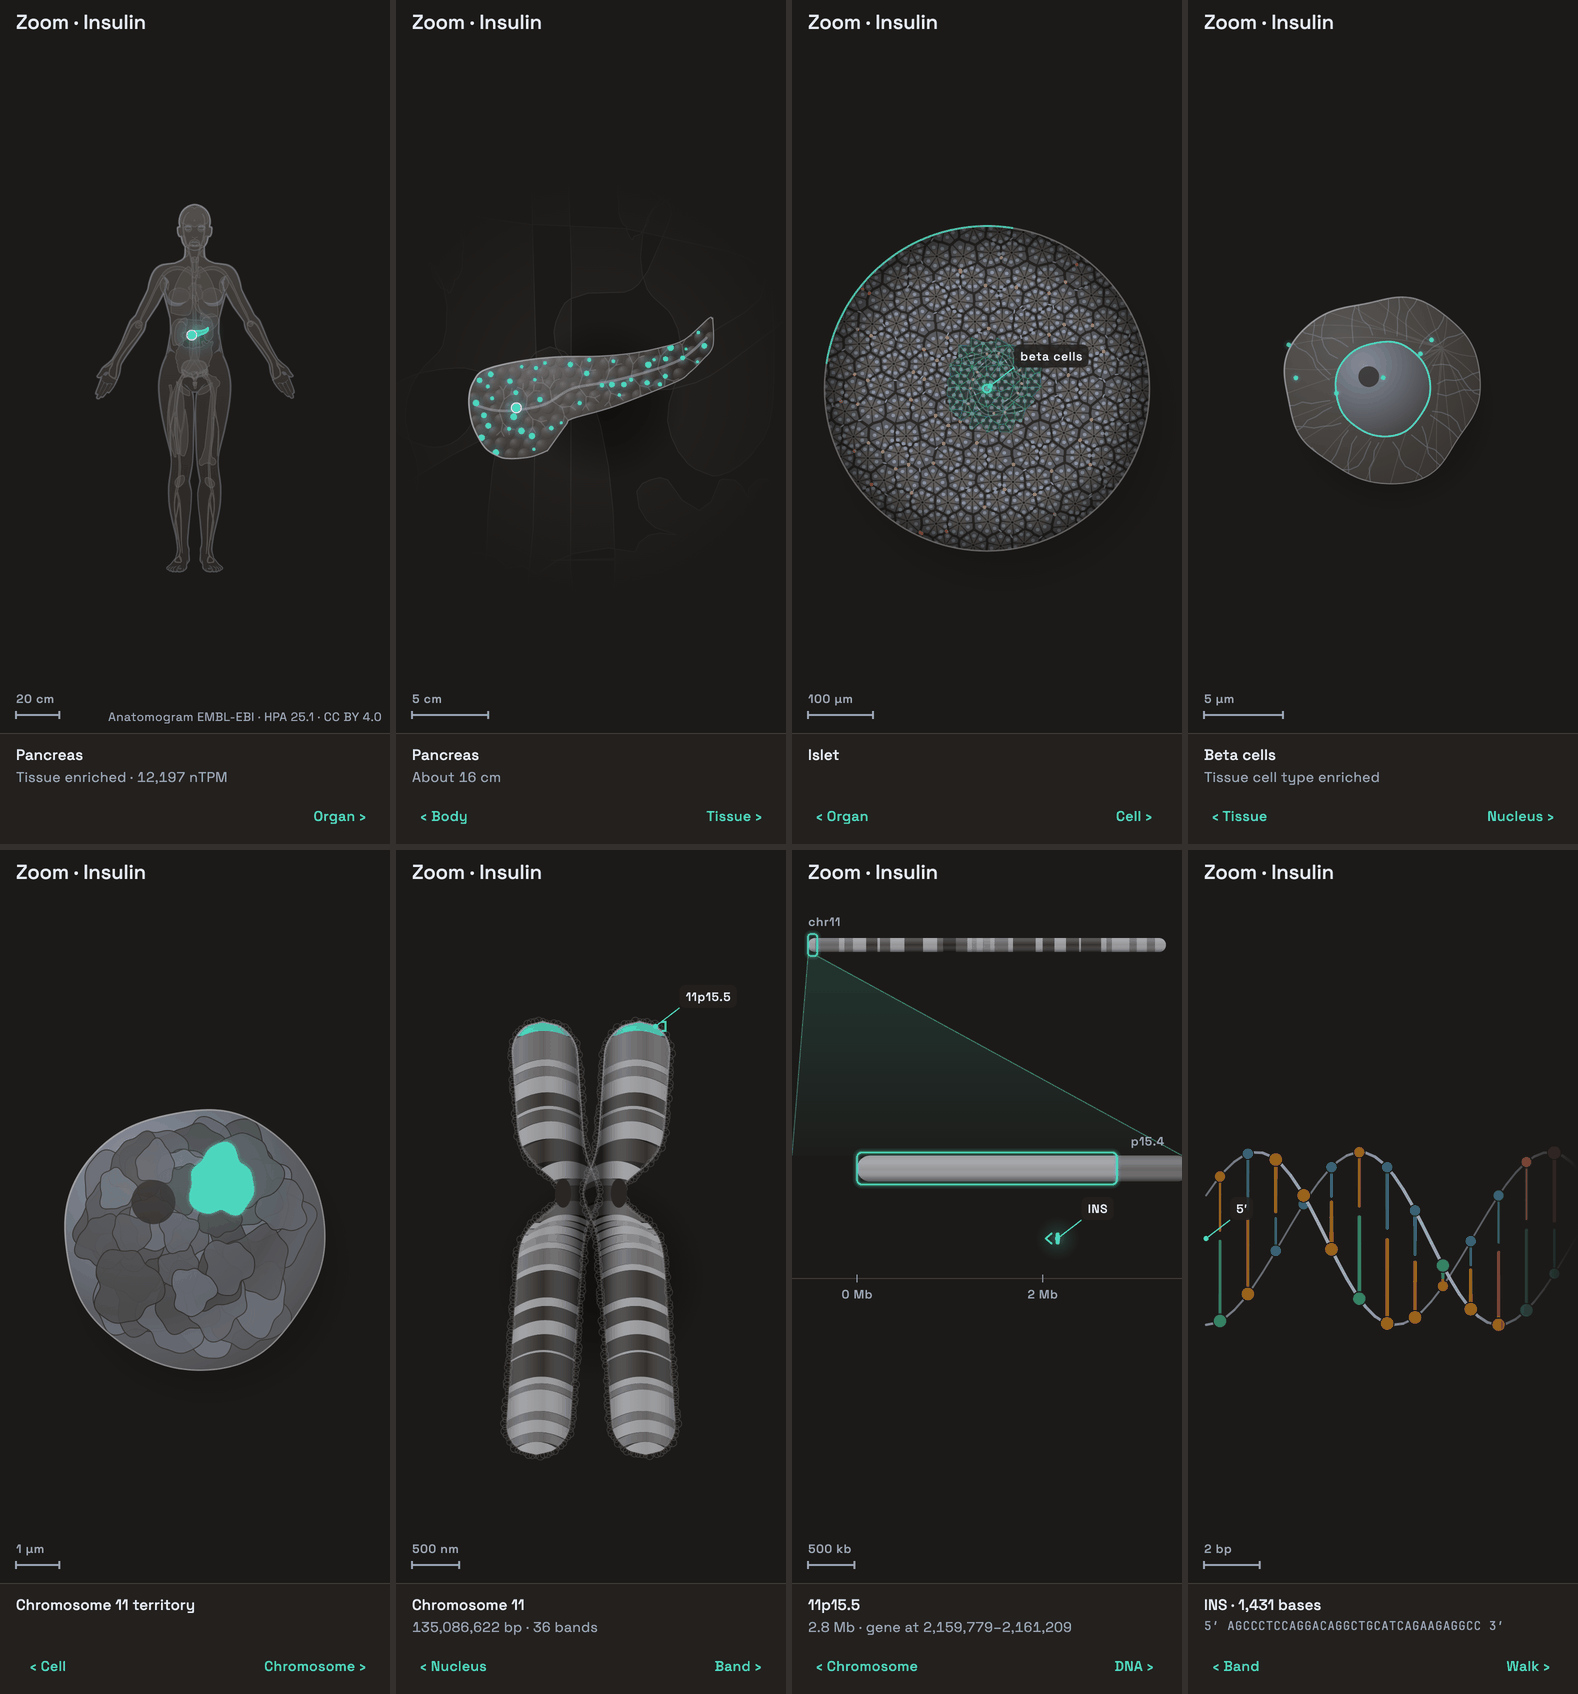
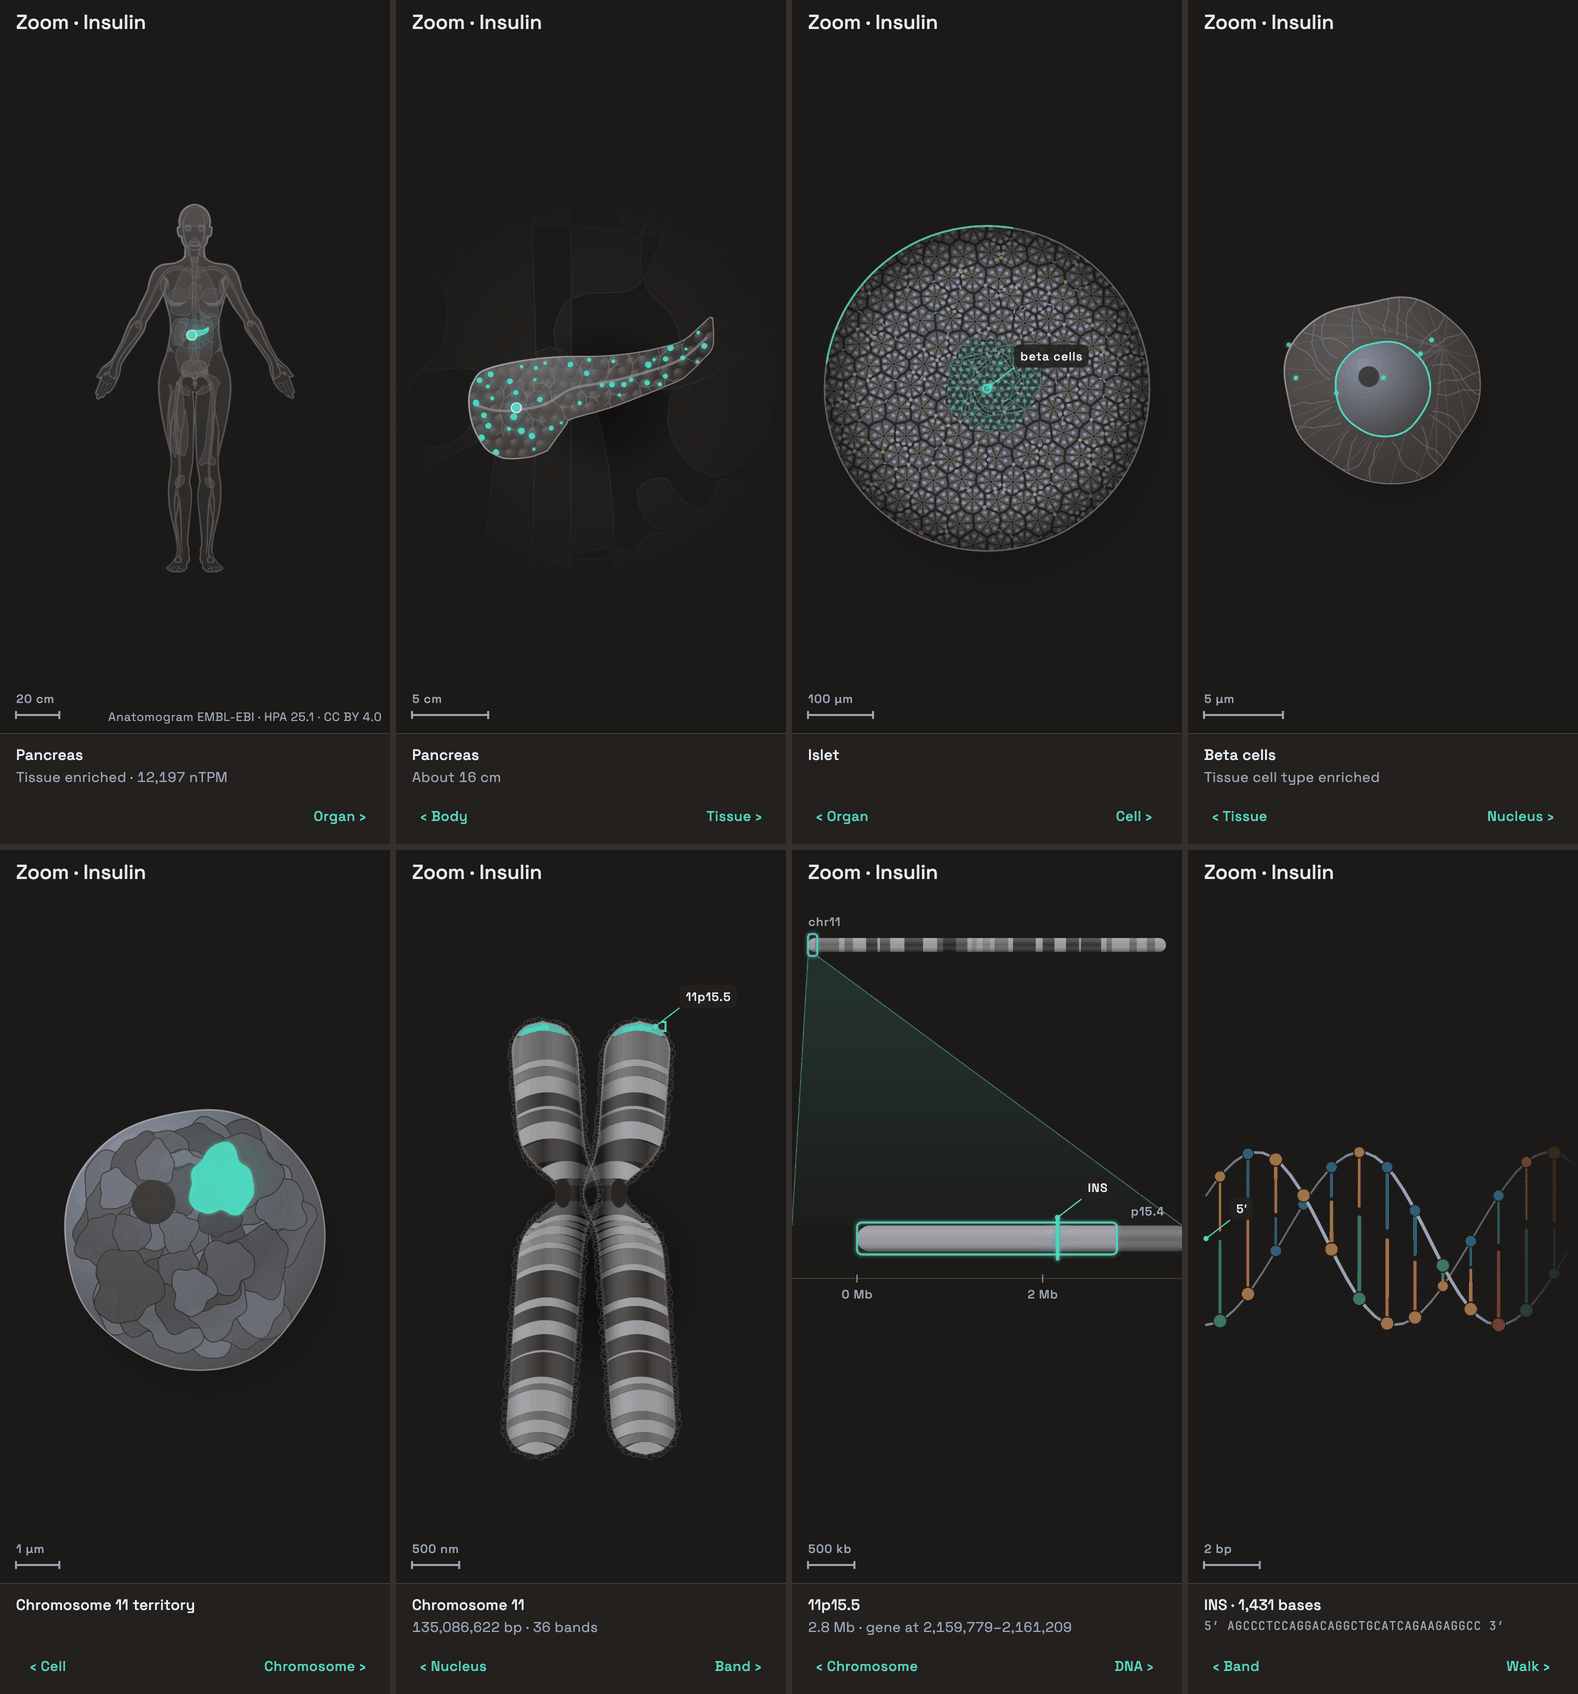
zoom: the band marks the gene on its strip, with no track of its own
The user asked what the small mark under the band was, and whether the
zoomed-in strip could carry it instead (2026-10-14); they chose the
strip. The gene had a track of its own under the strip: a feature in the
accent at least 4 px wide, an arrow for its strand, and its name. Now its
stretch of the strip is ringed in the accent, 8 px proud of the strip and
at the least a tick 1.5 px wide, named at its top, where the zoom goes in.
Seventeen of the twenty are ticks; APP, CFTR and DMD rings as wide as they
are. The strip no longer rises to make room: it stays on the middle,
where the turned chromosome hands it over, and on the way to the DNA the
mark opens into the gene's exons. The strand goes from the zoom; the
walk's record sheet gives it.

The design doc, its picture and CLAUDE.md say so.

Changed region(s): [[0.5279, 0.6753, 0.7763, 0.7674], [0.8695, 0.7367, 0.9005, 0.7981]]

diff --git a/lib/features/zoom/presentation/scenes/band_scene.dart b/lib/features/zoom/presentation/scenes/band_scene.dart
@@ -13,18 +13,18 @@ import 'zoom_subject.dart';
 
 /// The gene's band as a genome browser shows it: the chromosome opened out
 /// as a lit strip of its bands laid along the genome, each named, the
-/// gene's band ringed in the mark; the whole chromosome docked above as a
-/// map with the view boxed on it, and a funnel from the box down to the
-/// strip; a ruler in base pairs; and the gene's span on its own track,
-/// where MANE puts it, in the mark, with the way it is read.
+/// gene's band ringed in the mark and the gene marked on the strip where
+/// MANE puts it; the whole chromosome docked above as a map with the view
+/// boxed on it, and a funnel from the box down to the strip; and a ruler in
+/// base pairs.
 ///
 /// It takes over from the chromosome as it turns to lie along the genome:
 /// the strip appears where the turned chromosome lies, on the middle of the
-/// view, and rises to make room for the gene's track as the ruler and the
-/// map come up. On the way out the zoom goes into the gene's bar where the
-/// DNA's view lies, read from the bar's left end ([ZoomSubject.geneEntry]),
-/// and the map gives way over the first half of the step as the gene's own
-/// DNA opens out of the bar.
+/// view, and stays there as the ruler, the map and the gene's mark come up.
+/// On the way out the zoom goes into the strip where the DNA's view lies,
+/// read from the left end of the gene's mark ([ZoomSubject.geneEntry]), and
+/// the map gives way over the first half of the step as the gene's own DNA
+/// opens out of the mark.
 ///
 /// Its units are the width of the view at the band, in base pairs, from the
 /// middle of the band; points are placed on screen through the camera in
@@ -56,14 +56,20 @@ final class BandScene extends ZoomScene {
   @override
   double asParent(double progress) => 1 - smoothstep((progress - 0.1) / 0.45);
 
-  /// Where the band's strip comes to sit above the gene's track, and the
-  /// ruler under the track, in pixels from the middle of the view: the
-  /// gene's name stands between the strip and the track.
-  static const double stripY = -70;
+  /// Where the ruler runs, in pixels below the middle of the view, where
+  /// the strip lies.
   static const double rulerY = 40;
 
   /// The strip's thickness, in pixels: the chromosome thins to it.
   static const double strip = 26;
+
+  /// How far the gene's mark stands above and below the strip, in pixels:
+  /// prouder than the band's own ring, which stands 3.
+  static const double markReach = 8;
+
+  /// The gene's mark at its least width, in pixels: a gene far narrower
+  /// than a pixel is still a tick across the strip.
+  static const double tick = 1.5;
 
   /// The whole chromosome docked along the top: how far down, and how
   /// thick.
@@ -73,36 +79,37 @@ final class BandScene extends ZoomScene {
   double _x(ZoomFrame frame, double position) =>
       frame.toScreen(Offset(unitOf(position), 0)).dx;
 
-  /// How far the strip has risen from the middle, and how much the ruler,
-  /// the docked map and the gene's track show: all of it once the band is
-  /// reached.
-  (double, double, double, double) _beats(ZoomFrame frame) {
+  /// How much the ruler, the docked map and the gene's mark show: all of
+  /// them once the band is reached.
+  (double, double, double) _beats(ZoomFrame frame) {
     if (!frame.isChild) {
-      return (stripY, 1, 1, 1);
+      return (1, 1, 1);
     }
     final double s = frame.progress;
     return (
-      stripY * smootherstep((s - 0.5) / 0.45),
       smoothstep((s - 0.6) / 0.3),
       smoothstep((s - 0.55) / 0.3),
       smoothstep((s - 0.7) / 0.3),
     );
   }
 
-  // The gene is named where the zoom goes into it: on a bar at its least
-  // width that is its middle, and on a wide one a point that stays put as
-  // the view closes in on it.
+  // The gene is named at the top of its mark, where the zoom goes into it:
+  // on a mark at its least width that is its middle, and on a wide one a
+  // point that stays put as the view closes in on it.
   @override
   void stage(ZoomFrame frame, ZoomStaging out) {
     final double mid = frame.size.height / 2;
-    final Offset gene = Offset(_x(frame, subject.geneEntry), mid);
-    final (double _, double _, double _, double track) = _beats(frame);
-    out.item('band:gene', gene, frame.opacity * track);
+    final Offset gene = Offset(
+      _x(frame, subject.geneEntry),
+      mid - strip / 2 - markReach,
+    );
+    final (double _, double _, double mark) = _beats(frame);
+    out.item('band:gene', gene, frame.opacity * mark);
     out.callout(
       'band',
       subject.record.gene,
       gene,
-      math.min(calloutPresence(frame), track),
+      math.min(calloutPresence(frame), mark),
     );
   }
 
@@ -122,9 +129,7 @@ final class BandScene extends ZoomScene {
     final double w = frame.size.width;
     final double mid = frame.size.height / 2;
     final ZoomInks inks = frame.inks;
-    final (double rise, double ruler, double dock, double track) = _beats(
-      frame,
-    );
+    final (double ruler, double dock, double mark) = _beats(frame);
     double clampX(double x) => x.clamp(-8.0, w + 8);
     final double left =
         subject.bandMiddle +
@@ -132,7 +137,7 @@ final class BandScene extends ZoomScene {
     final double right =
         subject.bandMiddle +
         frame.view.fromScreen(Offset(w, 0), frame.size).dx * _width;
-    final double y = mid + rise;
+    final double y = mid;
 
     // The funnel from the docked chromosome's box down to the strip, under
     // everything: the stretch of the whole the strip opens out.
@@ -201,37 +206,31 @@ final class BandScene extends ZoomScene {
     if (dock > 0) {
       _dock(canvas, frame, left, right, dock);
     }
-    if (track > 0) {
-      // The gene, on its own track: a feature in the mark, at least four
-      // pixels wide, with the way it is read.
+    if (mark > 0) {
+      // The gene, on the strip: its stretch of it ringed in the mark, where
+      // MANE puts it, at the least a tick across the strip.
       final double a = _x(frame, _track.spanStart.toDouble());
       final double b = _x(frame, _track.spanEnd + 1);
       final double centre = (a + b) / 2;
-      final double half = math.max((b - a).abs() / 2, 2);
-      final Rect feature = Rect.fromLTRB(
+      final double half = math.max((b - a).abs() / 2, tick / 2);
+      final Rect gene = Rect.fromLTRB(
         clampX(centre - half),
-        mid - 6,
+        y - strip / 2 - markReach,
         clampX(centre + half),
-        mid + 6,
+        y + strip / 2 + markReach,
       );
-      Sculpt.glow(canvas, feature.center, 22, inks, 0.3 * track);
-      canvas.drawRRect(
-        RRect.fromRectAndRadius(feature, const Radius.circular(2)),
-        Paint()..color = inks.glow(track),
-      );
-      final double way = _track.strand < 0 ? -1 : 1;
-      final double tip = way > 0 ? feature.right + 10 : feature.left - 10;
-      canvas.drawPath(
-        Path()
-          ..moveTo(tip - way * 6, mid - 5)
-          ..lineTo(tip, mid)
-          ..lineTo(tip - way * 6, mid + 5),
-        Paint()
-          ..style = PaintingStyle.stroke
-          ..strokeWidth = 1.8
-          ..strokeCap = StrokeCap.round
-          ..strokeJoin = StrokeJoin.round
-          ..color = inks.glow(track),
+      Sculpt.glow(canvas, gene.center, 22, inks, 0.3 * mark);
+      Sculpt.glowingStroke(
+        canvas,
+        Path()..addRRect(
+          RRect.fromRectAndRadius(
+            gene,
+            Radius.circular(math.min(4, gene.width / 2)),
+          ),
+        ),
+        inks,
+        width: 1.8,
+        alpha: mark,
       );
     }
   }

diff --git a/lib/features/zoom/presentation/scenes/dna_scene.dart b/lib/features/zoom/presentation/scenes/dna_scene.dart
@@ -14,13 +14,13 @@ import 'body_scene.dart';
 import 'zoom_scene.dart';
 import 'zoom_subject.dart';
 
-/// The gene's DNA from its 5′ end: what the gene's bar on the band's map
+/// The gene's DNA from its 5′ end: what the gene's mark on the band's strip
 /// opens into, through its exons and its chromatin down to the double helix
 /// that holds its first bases.
 ///
 /// It reads 5′ to 3′, left to right, as the walk does, whatever the gene's
-/// strand, from the left end of the bar ([ZoomSubject.geneEntry]). As the
-/// view closes in on the 5′ end, the bar opens into the gene as a genome
+/// strand, from the left end of the mark ([ZoomSubject.geneEntry]). As the
+/// view closes in on the 5′ end, the mark opens into the gene as a genome
 /// browser draws a transcript: its coding exons thick, their untranslated
 /// ends thin, each a lit block in the walk's own colours, its introns a line
 /// with chevrons the way it is read, every part at its real length.
@@ -54,8 +54,8 @@ final class DnaScene extends ZoomScene {
   static const double period = 200;
   static const double wrapped = 147;
 
-  // The gene comes up as soon as the band's bar does: on the map it is a
-  // few pixels wide, and the bar opens into it.
+  // The gene comes up as soon as the band's mark of it does: on the strip
+  // it is a tick, and the mark opens into it.
   @override
   double asChild(double progress) => smoothstep((progress - 0.02) / 0.45);
 

diff --git a/lib/features/zoom/presentation/scenes/zoom_subject.dart b/lib/features/zoom/presentation/scenes/zoom_subject.dart
@@ -72,12 +72,12 @@ final class ZoomSubject {
   /// [metres] in [stop]'s scene units.
   double unitsOf(ZoomStop stop, double metres) => metres / depth.widthOf(stop);
 
-  /// Where the zoom goes into the gene on the band's map, as a genome
+  /// Where the zoom goes into the gene on the band's strip, as a genome
   /// position: the middle of the view at the DNA, counted from the left end
-  /// of the gene's bar. The DNA reads the gene 5′ to 3′ from its left, as
-  /// the walk does, whatever its strand: on the map the gene is a bar with
-  /// nothing inside it to turn, and turned over about its middle a bar is
-  /// the same bar, so its 5′ end is drawn at the bar's left end.
+  /// of the gene's mark. The DNA reads the gene 5′ to 3′ from its left, as
+  /// the walk does, whatever its strand: on the strip the gene is a mark
+  /// with nothing inside it to turn, and turned over about its middle a
+  /// mark is the same mark, so its 5′ end is drawn at the mark's left end.
   double get geneEntry => track.spanStart + dnaView;
 
   /// The middle of the band or bands it lies in, on the genome.

diff --git a/test/features/zoom/presentation/zoom_smoothness_test.dart b/test/features/zoom/presentation/zoom_smoothness_test.dart
@@ -357,8 +357,10 @@ void main() {
     }
   });
 
-  testWidgets('the gene’s DNA opens out of its bar on the band’s map, its 5′ '
-      'end at the bar’s left whatever its strand', (WidgetTester tester) async {
+  testWidgets('the gene’s DNA opens out of its mark on the band’s strip, its '
+      '5′ end at the mark’s left whatever its strand', (
+    WidgetTester tester,
+  ) async {
     final ZoomInks inks = await _inks(tester);
     for (final ProteinTarget t in TestCatalog.all) {
       final ZoomStage stage = _stage(t);

diff --git a/docs/design/zoom.md b/docs/design/zoom.md
@@ -520,41 +520,45 @@ decades for chromosome 1), and the minimum travel gives it its room.
   that moment the chromosome's length on screen and the strip's length of
   genome are the same number of pixels, by the camera's own arithmetic. The
   two cross-fade over half the segment.
-- The strip then rises, a ruler in base pairs comes up under the gene's
-  track, and the whole chromosome docks above with the view boxed on it.
-  The scale bar changes from µm to Mb half way.
+- The strip stays where it appears, a ruler in base pairs comes up under
+  it, the gene is marked on it, and the whole chromosome docks above with
+  the view boxed on it. The scale bar changes from µm to Mb half way.
 
 **Band.** As a genome browser shows it:
-- the strip, 26 px, a lit tube of the bands laid along the genome, 70 px
-  above the middle, each band named over the part of it in view where that
-  part has room for its name, and the gene's band ringed in the accent;
+- the strip, 26 px, a lit tube of the bands laid along the genome, on the
+  middle of the view, each band named over the part of it in view where
+  that part has room for its name, and the gene's band ringed in the
+  accent;
+- the gene marked on the strip, where MANE puts it, and named: its stretch
+  ringed in the accent, 8 px proud of the strip, at the least a tick
+  1.5 px wide. Seventeen of the twenty are ticks; APP, CFTR and DMD are
+  rings as wide as they are. It had a track of its own under the strip,
+  with an arrow for its strand, until the user chose to mark it on the
+  strip (2026-10-14); the walk's record sheet gives the strand;
 - the whole chromosome docked at the top as a lit ideogram, the view boxed
   on it in the accent, and a funnel from the box down to the strip;
-- the gene's span on a track of its own, where MANE puts it, in the accent,
-  with an arrow the way it is read and its name;
 - a ruler in Mb, 40 px below the middle.
 
 **Into the gene.** One step goes from the band down to the DNA, five to six
 decades: the gene and the DNA are one stop, which looks like the DNA (the
 user's choice of 2026-10-14; the gene had a stop of its own before, with a
 polymerase passing along it).
-- The zoom goes into the gene's bar at its left end, where the DNA's view
+- The zoom goes into the gene's mark at its left end, where the DNA's view
   lies. The DNA reads the gene 5′→3′ from its left, as the walk does,
-  whatever its strand: on the map the gene is a bar with nothing inside it
-  to turn, and a bar turned over about its middle is the same bar. A turn
-  of reverse-strand genes was planned once and dropped: it swung
+  whatever its strand: on the strip the gene is a mark with nothing inside
+  it to turn, and a mark turned over about its middle is the same mark. A
+  turn of reverse-strand genes was planned once and dropped: it swung
   dystrophin's 5′ end across the view by up to 3 px a frame, past the
   smoothness bound.
-- The band names the gene where the zoom goes in, so the name's dot stays
-  put as the view closes on it. On a bar at its least width (seventeen of
-  the twenty) that is its middle; on APP's, CFTR's and DMD's it is the
-  bar's left end.
+- The band names the gene at the top of its mark, where the zoom goes in,
+  so the name's dot stays put as the view closes on it. On a tick that is
+  its middle; on APP's, CFTR's and DMD's rings it is the left end.
 - The map gives way over the first half of the step, while the gene grows
-  out of its bar.
+  out of its mark.
 
 **DNA.** The gene's own stop: the card names the gene and its length over
 the first bases its helix carries.
-- On the way in, the bar opens into the gene's exons and introns at their
+- On the way in, the mark opens into the gene's exons and introns at their
   real lengths (`GeneLayout` uses `realIntronBp` for the three genes whose
   record shortens its introns), as a genome browser draws a transcript:
   lit, rounded blocks in the walk's role colours, coding exons tall and
@@ -620,8 +624,9 @@ folds, which once fell in the last frame of the step to the organ.
   passes its stop, and comes to rest still.
 - No two names overlap, and each keeps 8 pt from the edges, at 390 and 320
   wide; the band never sets two of its words over each other.
-- As the step leaves the band, the gene's DNA lies on its bar on the map,
-  5′ end at the bar's left, for all twenty; its exons show on the way in
+- As the step leaves the band, the gene's DNA lies on its mark on the
+  strip, 5′ end at the mark's left, for all twenty; its exons show on the
+  way in
   and not at the DNA.
 
 What it found over the zoom's life, and what was changed:

diff --git a/CLAUDE.md b/CLAUDE.md
@@ -276,13 +276,13 @@ seen:
 - a metaphase chromosome with its G-bands, a genome map of the band
   opened out of the whole chromosome, and the gene's own DNA, its stop
   (the gene and the DNA are one, the user's choice of 2026-10-14): on the
-  way in, the gene's bar opens into the record's exons at their real
-  lengths, then into chromatin, then into the home screen's own double
-  helix (`DnaHelixPainter`, from `lib/shared/helix/`), lying 5′ to 3′ with
-  the record's first bases, whole: unlike the home screen's, nothing
-  transcribes it (`transcription: null`), so no strand peels away. The
-  zoom goes into the bar at its left end, where the 5′ end is drawn
-  whatever the strand, so nothing turns.
+  way in, the gene's mark on the band's strip opens into the record's
+  exons at their real lengths, then into chromatin, then into the home
+  screen's own double helix (`DnaHelixPainter`, from `lib/shared/helix/`),
+  lying 5′ to 3′ with the record's first bases, whole: unlike the home
+  screen's, nothing transcribes it (`transcription: null`), so no strand
+  peels away. The zoom goes into the mark at its left end, where the 5′
+  end is drawn whatever the strand, so nothing turns.
 
 The organ and the cell are one path the bake chose, a cell that lives in
 the organ (`path` in the `locus` track's schema 2, `pipeline/locus` in the
